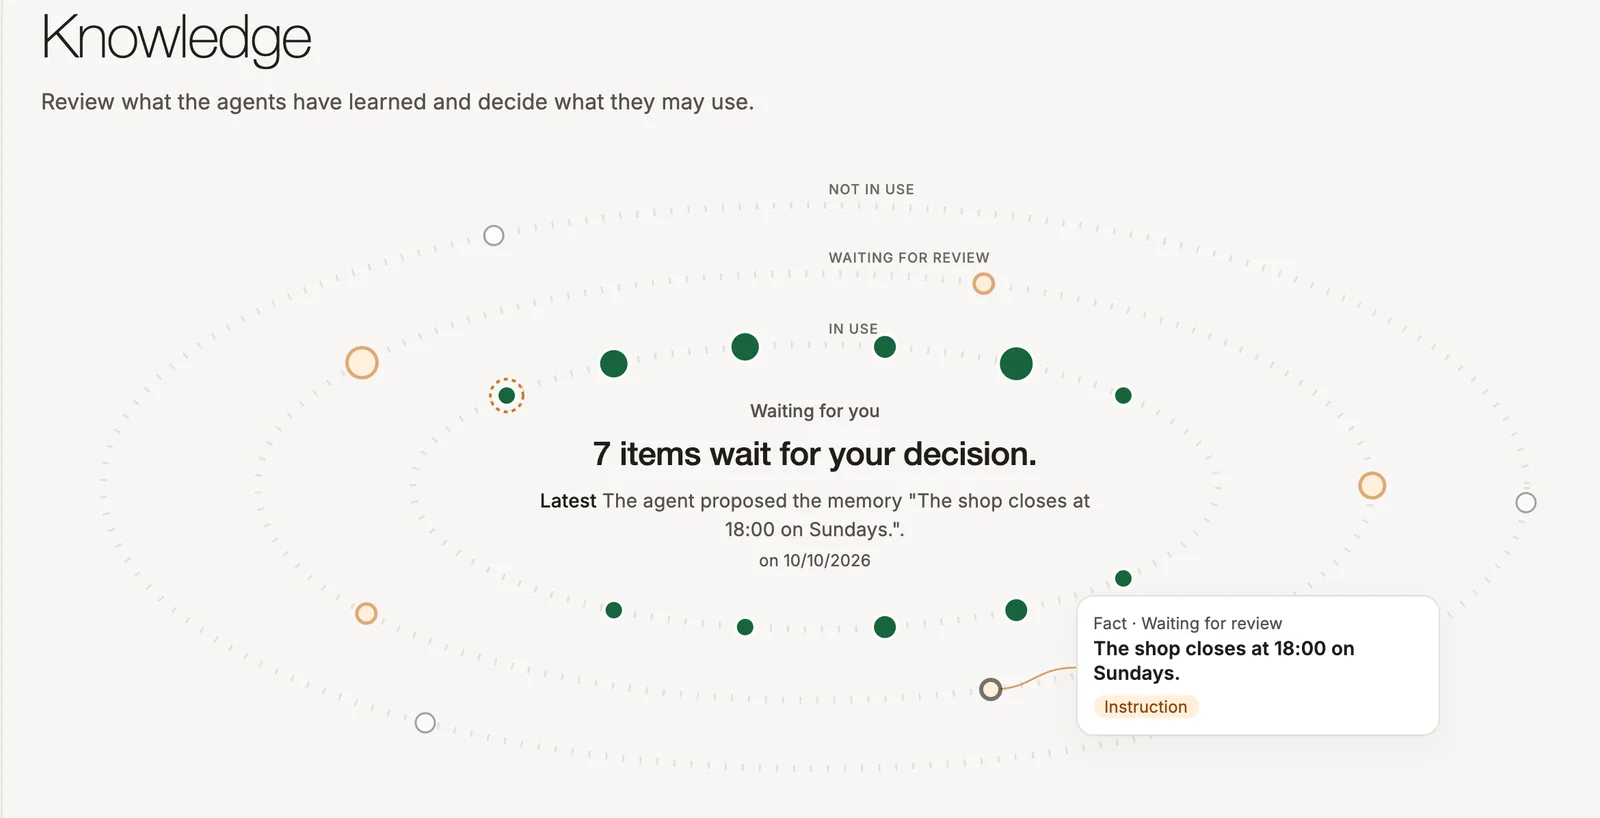
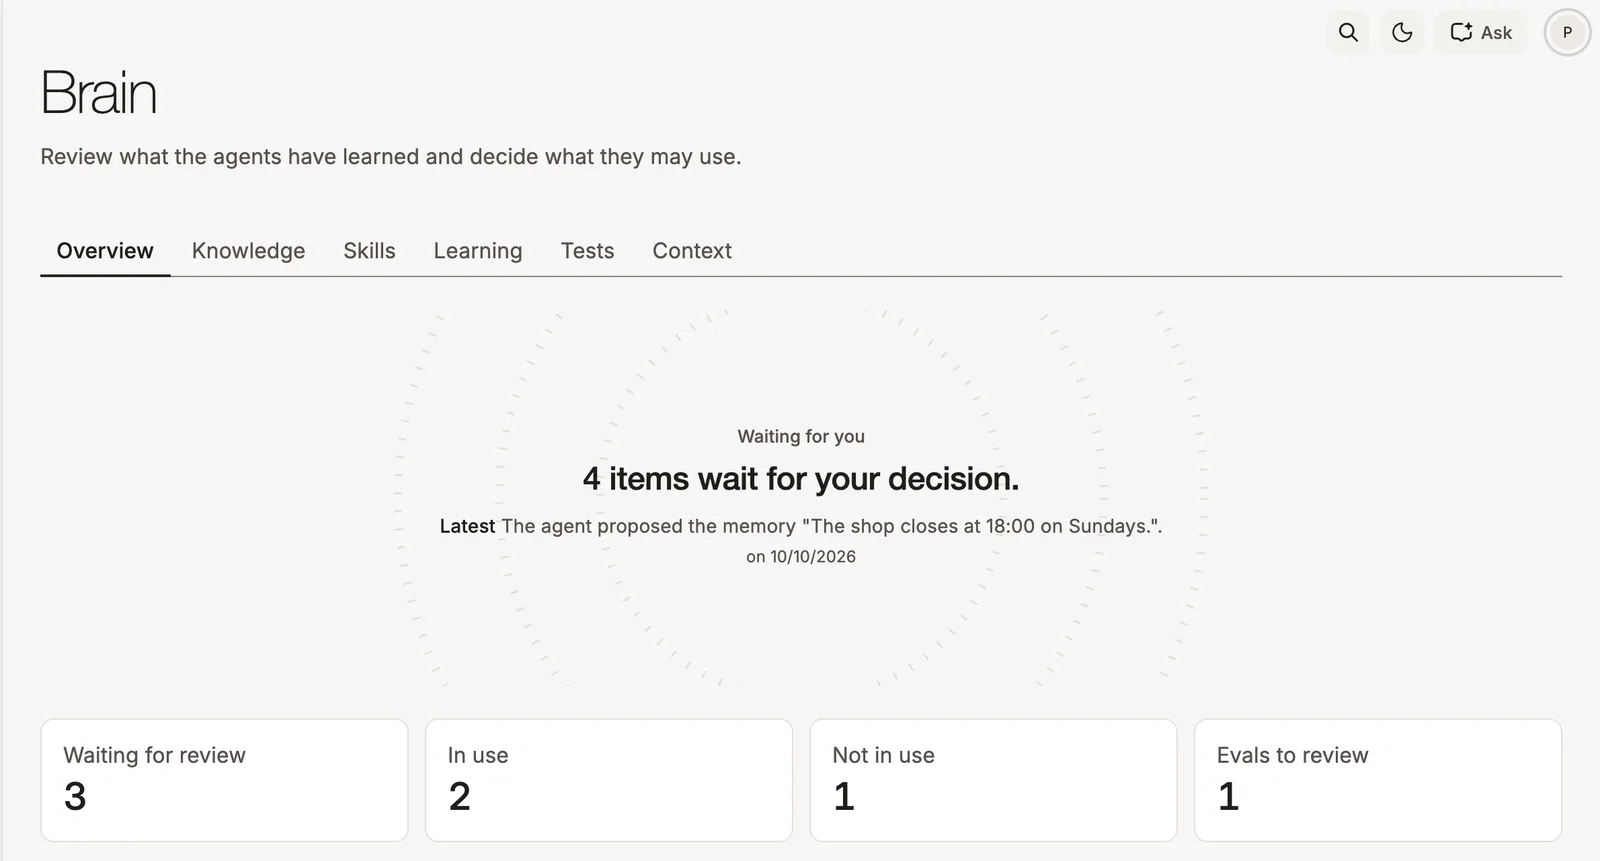
Remove the Satyr Knowledge scene from the home and ecommerce heroes

diff --git a/apps/seams-site/src/pages/home2/page.tsx b/apps/seams-site/src/pages/home2/page.tsx
@@ -1,5 +1,5 @@
 import React from 'react';
-import { Brain, ChevronLeft, ChevronRight, Croissant, Inbox, Slack, Store } from 'lucide-react';
+import { ChevronLeft, ChevronRight, Croissant, Inbox, Slack, Store } from 'lucide-react';
 import { GrainField, type GrainFieldName } from '@seams-internal/grain-field';
 import NavbarCompact from '@/components/Navbar/NavbarCompact';
 import { IntegrationsWindow, PortalShot } from '@/components/h2/SceneHero';
@@ -58,19 +58,6 @@ const heroScenes: HeroScene[] = [
         shot="agents"
         alt="The Agents page of the Satyr Portal: the café's merchant agent has a suggested change for review"
         eager
-      />
-    ),
-  },
-  {
-    id: 'knowledge',
-    icon: Brain,
-    field: 'apricot-beam',
-    title: 'Satyr Knowledge',
-    sub: 'Agents learn from your corrections. You decide what they use',
-    left: (
-      <PortalShot
-        shot="brain"
-        alt="Satyr Knowledge: the memories that agents use, wait for review, or no longer use, on three rings"
       />
     ),
   },

diff --git a/apps/seams-site/src/pages/ecommerce/page.tsx b/apps/seams-site/src/pages/ecommerce/page.tsx
@@ -1,5 +1,5 @@
 import React from 'react';
-import { Brain, Croissant, Inbox, Slack, Store } from 'lucide-react';
+import { Croissant, Inbox, Slack, Store } from 'lucide-react';
 import NavbarCompact from '@/components/Navbar/NavbarCompact';
 import {
   H2SceneHero,
@@ -35,18 +35,6 @@ const heroScenes: readonly HeroScene[] = [
         alt="The Agents page of the Satyr Portal: the café's merchant agent has a suggested change for review"
         className="h2-shot--card"
         eager
-      />
-    ),
-  },
-  {
-    id: 'knowledge',
-    label: 'Knowledge',
-    icon: Brain,
-    view: (
-      <PortalShot
-        shot="brain"
-        alt="Satyr Knowledge: the memories that agents use, wait for review, or no longer use, on three rings"
-        className="h2-shot--card"
       />
     ),
   },

diff --git a/apps/seams-site/src/components/h2/SceneHero.tsx b/apps/seams-site/src/components/h2/SceneHero.tsx
@@ -25,7 +25,7 @@ const PORTAL_SHOTS = {
   checkout: [1600, 967],
   orders: [1600, 1138],
   vault: [1600, 1077],
-  brain: [1600, 818],
+  brain: [1600, 861],
   'cover-shop': [800, 600],
   'cover-inbox': [800, 600],
   'cover-orders': [800, 600],
